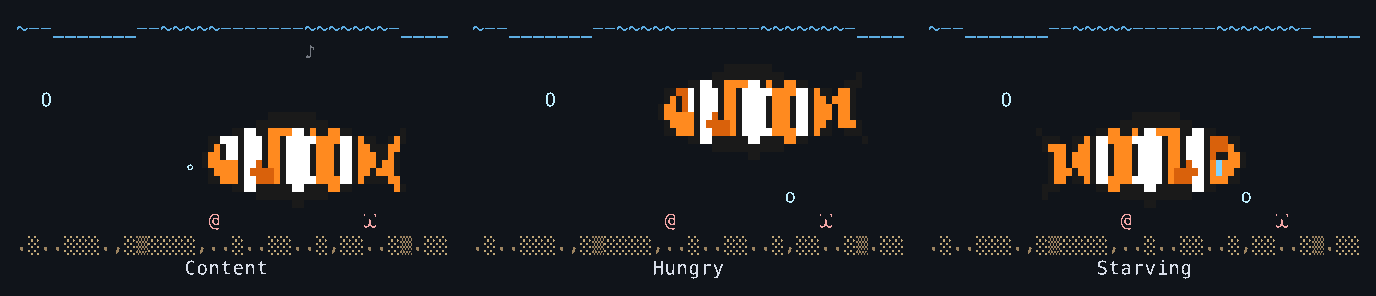
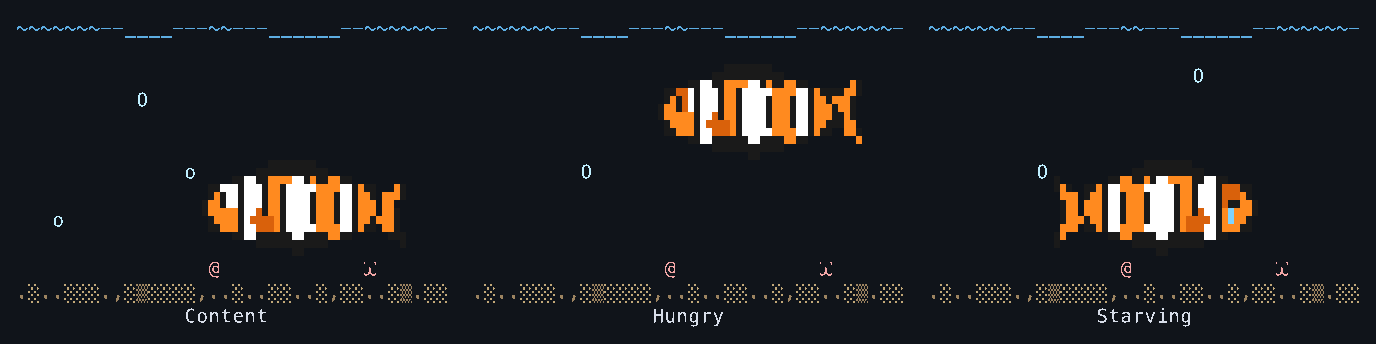
Fix review findings on the README pictures
- Pin golang.org/x/image to v0.32.0, the newest that builds with Go
  1.24. v0.48.0 had moved the module's go directive to 1.26.0 and x/sys
  to v0.50.0, which would have raised the Go version go install needs,
  only for this tool. The go directive and x/sys are back as on main.
- The Mood pictures and the hero GIF work out how long the Fish goes
  unfed from fish.HungryAt, StarvingAt, MaxHunger and HungerPerDay, so
  retuning Hunger can't quietly mislabel them.
- The hero GIF fails if it can't find the Fish to pat, rather than
  skipping the Pat silently.
- One constant for the small Tanks' size. They're two rows taller, so a
  Starving Fish's droop shows.

Noted from review: the GIF is encoded with Go's image/gif, not ffmpeg as
first planned, so it needs no ffmpeg and keeps an exact palette.
Waived: the copies of sextant decoding and SGR parsing (the originals
are in render's internals and a test file, neither importable), the
'ten Species' sentence, and links pointing at main.

diff --git a/tools/shots/main.go b/tools/shots/main.go
@@ -43,6 +43,9 @@ const (
 	fontSize     = 19
 	pad          = 16 // pixels of background around each picture
 	gifStep      = 2  // app frames per GIF frame: 20 fps → 10 fps
+	// tileW and tileH are the window, in cells, each small Tank in the
+	// Species and Mood pictures is drawn in.
+	tileW, tileH = 36, 13
 )
 
 var (
@@ -120,9 +123,9 @@ func launch(dir string, c *clock, seed uint64) *session {
 }
 
 // newFish starts on an empty data folder, picks sp and names the Fish, then
-// closes the Tank and opens it again unfed for hungry, so the Fish starts
-// with that much Hunger.
-func newFish(sp fish.Species, hungry time.Duration, seed uint64, width, height int) (*session, error) {
+// closes the Tank and opens it again after leaving the Fish unfed for long
+// enough that its Hunger is hunger.
+func newFish(sp fish.Species, hunger float64, seed uint64, width, height int) (*session, error) {
 	dir, err := os.MkdirTemp("", "shellfish-shots-")
 	if err != nil {
 		return nil, err
@@ -139,7 +142,7 @@ func newFish(sp fish.Species, hungry time.Duration, seed uint64, width, height i
 	}
 	s.send(tea.KeyMsg{Type: tea.KeyEnter})
 	s.close()
-	c.now = c.now.Add(hungry)
+	c.now = c.now.Add(time.Duration(hunger / fish.HungerPerDay * float64(fish.Day)))
 	s = launch(dir, c, seed)
 	s.resize(width, height)
 	s.advance(app.GreetingDuration + time.Second) // past the welcome-back greeting
@@ -572,7 +575,7 @@ func fishCell(g grid) (col, row int, ok bool) {
 // dropped in front of it, the Fish noticing it and darting over to eat it,
 // then a Pat.
 func (p *painter) hero(path string) error {
-	s, err := newFish(fish.Clownfish, 12*time.Hour, 3, 72, 18)
+	s, err := newFish(fish.Clownfish, (fish.HungryAt+fish.StarvingAt)/2, 3, 72, 18)
 	if err != nil {
 		return err
 	}
@@ -589,9 +592,11 @@ func (p *painter) hero(path string) error {
 	record(1500 * time.Millisecond)
 	s.click(52, 7)
 	record(4 * time.Second)
-	if col, row, ok := fishCell(s.screen()); ok {
-		s.click(col, row)
+	col, row, ok := fishCell(s.screen())
+	if !ok {
+		return fmt.Errorf("hero: no Fish on screen to pat")
 	}
+	s.click(col, row)
 	record(3 * time.Second)
 	return writeGIF(path, frames, 100/(1000/int(app.FrameInterval.Milliseconds()*gifStep)))
 }
@@ -600,7 +605,7 @@ func (p *painter) hero(path string) error {
 func (p *painter) species(path string) error {
 	var tiles []grid
 	for _, sp := range []fish.Species{fish.Clownfish, fish.Goldfish, fish.Pufferfish, fish.BlueTang, fish.Betta, fish.Koi} {
-		s, err := newFish(sp, time.Hour, 5, 36, 11)
+		s, err := newFish(sp, 0, 5, tileW, tileH)
 		if err != nil {
 			return err
 		}
@@ -608,7 +613,7 @@ func (p *painter) species(path string) error {
 		g := s.screen()
 		s.close()
 		g = g[:len(g)-1] // without the status line
-		tiles = append(tiles, append(g, p.label(sp.Title(), 36)...))
+		tiles = append(tiles, append(g, p.label(sp.Title(), tileW)...))
 	}
 	return writePNG(path, p.draw(stack(tiles, 3)))
 }
@@ -616,19 +621,24 @@ func (p *painter) species(path string) error {
 // moods shows one Fish Content, Hungry and Starving.
 func (p *painter) moods(path string) error {
 	var tiles []grid
+	// Hunger in the middle of each Mood's band.
 	for _, m := range []struct {
 		name   string
-		hungry time.Duration
-	}{{"Content", 6 * time.Hour}, {"Hungry", 12 * time.Hour}, {"Starving", 22 * time.Hour}} {
-		s, err := newFish(fish.Clownfish, m.hungry, 7, 36, 11)
+		hunger float64
+	}{
+		{"Content", fish.HungryAt / 2},
+		{"Hungry", (fish.HungryAt + fish.StarvingAt) / 2},
+		{"Starving", (fish.StarvingAt + fish.MaxHunger) / 2},
+	} {
+		s, err := newFish(fish.Clownfish, m.hunger, 7, tileW, tileH)
 		if err != nil {
 			return err
 		}
-		s.advance(6 * time.Second) // a Starving Fish droops low first
+		s.advance(10 * time.Second) // a Starving Fish droops low first
 		g := s.screen()
 		s.close()
 		g = g[:len(g)-1]
-		tiles = append(tiles, append(g, p.label(m.name, 36)...))
+		tiles = append(tiles, append(g, p.label(m.name, tileW)...))
 	}
 	return writePNG(path, p.draw(stack(tiles, 3)))
 }
